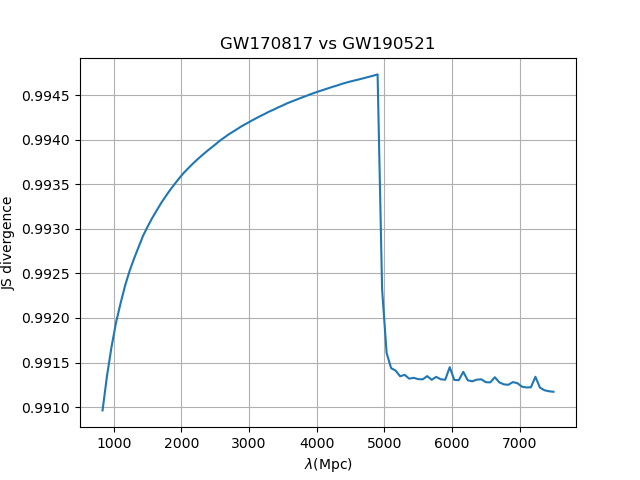
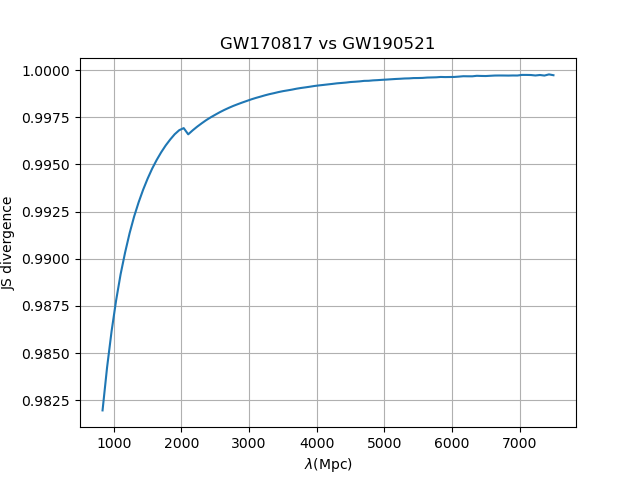
fit plot4.1

diff --git a/plot4.py b/plot4.py
@@ -26,85 +26,48 @@ g, p_g = np.array(sample)[:,0], np.array(sample)[:,1]
 g, p_g = (g-983)/(240-983)*(2-10)+10, (p_g-9)/(699-9)*(0.0-0.7)+0.7
 g, p_g = g/2.5, p_g*2.5
 s = ((g[1:]-g[:-1])*(p_g[1:]+p_g[:-1])).sum()/2
-g_19, p_g_19 = g, p_g/s
+g, p_g = g, p_g/s
+x = np.random.uniform(g.min(), g.max(), d_l_gw_sample.size**2)
+y = np.random.uniform(0, p_g.max(), d_l_gw_sample.size**2)
+g_19 = x[np.where(y<=np.interp(x, g, p_g, left=0, right=0))]
 
-def plot17(lamdas=np.linspace(0, 42.9*3, 101)):
+def plot(lamdas):
     js = np.empty(lamdas.size)
     for i in range(lamdas.size):
         print(i)
         lamda = lamdas[i]
         if (lamda == 0):
-            e = np.zeros(10**8)
             a_17 = g_17-1
         else:
             e = (1+d_l/lamda)*np.exp(-d_l/lamda)
             a_17 = -((1-g_17)/(1-g_17*e))
-        a_17 = a_17[np.where(abs(a_17)<=10)]
-        bins = int((a_17.max()-a_17.min())*200)
+        a_17 = np.sort(a_17)[int(a_17.size*0.001):int(a_17.size*0.999)]
+        print(a_17[0], a_17[-1])
+        bins = int((a_17[-1]-a_17[0])*200)
         hist, bin_edges = np.histogram(a_17, bins=bins, density=True)
         a_17, p_a_17 = (bin_edges[:-1]+bin_edges[1:])/2, hist
         s = ((a_17[1:]-a_17[:-1])*(p_a_17[1:]+p_a_17[:-1])).sum()/2
         a_17, p_a_17 = a_17, p_a_17/s
         if (lamda == 0):
-            e = 0
+            a_19 = g_19-1
         else:
             e = (1+2.5e3/lamda)*np.exp(-2.5e3/lamda)
-        alpha = -((1-g_19)/(1-g_19*e))
-        p_alpha = p_g_19*((1-e)/(1+alpha*e)**2)
-        alpha_i = np.sort_complex(alpha+p_alpha*1j)
-        a_19, p_a_19 = alpha_i.real, alpha_i.imag
-        from scipy.integrate import simpson
-        a = np.linspace(a_17.min(), a_17.max(), 10**7)
-        p_17 = np.interp(a, a_17, p_a_17, left=0, right=0)
-        p_19 = np.interp(a, a_19, p_a_19, left=0, right=0)
-        f = p_17*np.log2(p_17/((p_17+p_19)/2))
-        f[np.isnan(f)] = 0
-        kl_17 = simpson(f, a)
-        a = np.linspace(a_19.min(), a_19.max(), 10**7)
-        p_19 = np.interp(a, a_19, p_a_19, left=0, right=0)
-        p_17 = np.interp(a, a_17, p_a_17, left=0, right=0)
-        f = p_19*np.log2(p_19/((p_19+p_17)/2))
-        f[np.isnan(f)] = 0
-        kl_19 = simpson(f, a)
-        js[i] = (kl_17+kl_19)/2
-    plt.plot(lamdas, js)
-
-def plot19(lamdas=np.linspace(2.5e3/3, 2.5e3*3, 101)):
-    js = np.empty(lamdas.size)
-    for i in range(lamdas.size):
-        print(i)
-        lamda = lamdas[i]
-        if (lamda == 0):
-            e = np.zeros(10**8)
-            a_17 = g_17-1
-        else:
-            e = (1+d_l/lamda)*np.exp(-d_l/lamda)
-            a_17 = -((1-g_17)/(1-g_17*e))
-        a_17 = a_17[np.where(abs(a_17+1)<=0.5)]
-        bins = int((a_17.max()-a_17.min())*200)
-        hist, bin_edges = np.histogram(a_17, bins=bins, density=True)
-        a_17, p_a_17 = (bin_edges[:-1]+bin_edges[1:])/2, hist
-        s = ((a_17[1:]-a_17[:-1])*(p_a_17[1:]+p_a_17[:-1])).sum()/2
-        a_17, p_a_17 = a_17, p_a_17/s
-        if (lamda == 0):
-            e = 0
-        else:
-            e = (1+2.5e3/lamda)*np.exp(-2.5e3/lamda)
-        alpha = -((1-g_19)/(1-g_19*e))
-        p_alpha = p_g_19*((1-e)/(1+alpha*e)**2)
-        where = np.where(abs(a_17)<=10)
-        alpha_i = np.sort_complex(alpha[where]+p_alpha[where]*1j)
-        a_19, p_a_19 = alpha_i.real, alpha_i.imag
+            a_19 = -((1-g_19)/(1-g_19*e))
+        a_19 = np.sort(a_19)[int(a_19.size*0.001):int(a_19.size*0.999)]
+        print(a_19[0], a_19[-1])
+        bins = int((a_19[-1]-a_19[0])*200)
+        hist, bin_edges = np.histogram(a_19, bins=bins, density=True)
+        a_19, p_a_19 = (bin_edges[:-1]+bin_edges[1:])/2, hist
         s = ((a_19[1:]-a_19[:-1])*(p_a_19[1:]+p_a_19[:-1])).sum()/2
         a_19, p_a_19 = a_19, p_a_19/s
         from scipy.integrate import simpson
-        a = np.linspace(a_17.min(), a_17.max(), 10**7)
+        a = np.linspace(a_17[0], a_17[-1], 10**7)
         p_17 = np.interp(a, a_17, p_a_17, left=0, right=0)
         p_19 = np.interp(a, a_19, p_a_19, left=0, right=0)
         f = p_17*np.log2(p_17/((p_17+p_19)/2))
         f[np.isnan(f)] = 0
         kl_17 = simpson(f, a)
-        a = np.linspace(a_19.min(), a_19.max(), 10**7)
+        a = np.linspace(a_19[0], a_19[-1], 10**7)
         p_19 = np.interp(a, a_19, p_a_19, left=0, right=0)
         p_17 = np.interp(a, a_17, p_a_17, left=0, right=0)
         f = p_19*np.log2(p_19/((p_19+p_17)/2))
@@ -113,8 +76,7 @@ def plot19(lamdas=np.linspace(2.5e3/3, 2.5e3*3, 101)):
         js[i] = (kl_17+kl_19)/2
     plt.plot(lamdas, js)
 
-plot17()
-plot19()
+plot(lamdas=np.linspace(2.5e3/3, 2.5e3*3, 101))
 plt.ylim()
 plt.title('GW170817 vs GW190521')
 plt.xlabel('$\\lambda$(Mpc)')

diff --git a/plot4.1.py b/plot4.1.py
@@ -6,13 +6,10 @@ import matplotlib.pyplot as plt
 
 f = h5py.File('GW170817_GWTC-1.hdf5','r')
 dset = f['IMRPhenomPv2NRT_lowSpin_posterior']
-d_l = np.sort(dset['luminosity_distance_Mpc'])
-sample = (np.random.choice(d_l, size=10**8)
-         /np.random.normal(loc=42.9, scale=3.2, size=10**8))**2
-hist, bin_edges = np.histogram(sample, bins=200, density=True)
-g, p_g = (bin_edges[:-1]+bin_edges[1:])/2, hist
-s = ((g[1:]-g[:-1])*(p_g[1:]+p_g[:-1])).sum()/2
-g_17, p_g_17 = g, p_g/s
+d_l_gw_sample = np.sort(dset['luminosity_distance_Mpc'])
+d_l_gw = np.random.choice(d_l_gw_sample, size=d_l_gw_sample.size**2)
+d_l = np.random.normal(loc=42.9, scale=3.2, size=d_l_gw_sample.size**2)
+g_17 = (d_l_gw/d_l)**2
 
 img = mpimg.imread('d_l_GW190521.jpg')
 sample = []
@@ -29,7 +26,10 @@ g, p_g = np.array(sample)[:,0], np.array(sample)[:,1]
 g, p_g = (g-983)/(240-983)*(2-10)+10, (p_g-9)/(699-9)*(0.0-0.7)+0.7
 g, p_g = g/2.5, p_g*2.5
 s = ((g[1:]-g[:-1])*(p_g[1:]+p_g[:-1])).sum()/2
-g_19, p_g_19 = g, p_g/s
+g, p_g = g, p_g/s
+x = np.random.uniform(g.min(), g.max(), d_l_gw_sample.size**2)
+y = np.random.uniform(0, p_g.max(), d_l_gw_sample.size**2)
+g_19 = x[np.where(y<=np.interp(x, g, p_g, left=0, right=0))]
 
 def plot(lamdas=np.linspace(0, 3, 101)):
     js = np.empty(lamdas.size)
@@ -37,29 +37,37 @@ def plot(lamdas=np.linspace(0, 3, 101)):
         print(i)
         lamda = lamdas[i]
         if (lamda == 0):
-            e = 0
+            a_17 = g_17-1
         else:
             e = (1+1/lamda)*np.exp(-1/lamda)
-        alpha = -((1-g_17)/(1-g_17*e))
-        p_alpha = p_g_17*((1-e)/(1+alpha*e)**2)
-        alpha_i = np.sort_complex(alpha+p_alpha*1j)
-        a_17, p_a_17 = alpha_i.real, alpha_i.imag
+            a_17 = -((1-g_17)/(1-g_17*e))
+        a_17 = np.sort(a_17)[int(a_17.size*0.001):int(a_17.size*0.999)]
+        print(a_17[0], a_17[-1])
+        bins = int((a_17[-1]-a_17[0])*200)
+        hist, bin_edges = np.histogram(a_17, bins=bins, density=True)
+        a_17, p_a_17 = (bin_edges[:-1]+bin_edges[1:])/2, hist
         s = ((a_17[1:]-a_17[:-1])*(p_a_17[1:]+p_a_17[:-1])).sum()/2
         a_17, p_a_17 = a_17, p_a_17/s
-        alpha = -((1-g_19)/(1-g_19*e))
-        p_alpha = p_g_19*((1-e)/(1+alpha*e)**2)
-        alpha_i = np.sort_complex(alpha+p_alpha*1j)
-        a_19, p_a_19 = alpha_i.real, alpha_i.imag
+        if (lamda == 0):
+            a_19 = g_19-1
+        else:
+            e = (1+1/lamda)*np.exp(-1/lamda)
+            a_19 = -((1-g_19)/(1-g_19*e))
+        a_19 = np.sort(a_19)[int(a_19.size*0.001):int(a_19.size*0.999)]
+        print(a_19[0], a_19[-1])
+        bins = int((a_19[-1]-a_19[0])*200)
+        hist, bin_edges = np.histogram(a_19, bins=bins, density=True)
+        a_19, p_a_19 = (bin_edges[:-1]+bin_edges[1:])/2, hist
         s = ((a_19[1:]-a_19[:-1])*(p_a_19[1:]+p_a_19[:-1])).sum()/2
         a_19, p_a_19 = a_19, p_a_19/s
         from scipy.integrate import simpson
-        a = np.linspace(a_17.min(), a_17.max(), 10**7)
+        a = np.linspace(a_17[0], a_17[-1], 10**7)
         p_17 = np.interp(a, a_17, p_a_17, left=0, right=0)
         p_19 = np.interp(a, a_19, p_a_19, left=0, right=0)
         f = p_17*np.log2(p_17/((p_17+p_19)/2))
         f[np.isnan(f)] = 0
         kl_17 = simpson(f, a)
-        a = np.linspace(a_19.min(), a_19.max(), 10**7)
+        a = np.linspace(a_19[0], a_19[-1], 10**7)
         p_19 = np.interp(a, a_19, p_a_19, left=0, right=0)
         p_17 = np.interp(a, a_17, p_a_17, left=0, right=0)
         f = p_19*np.log2(p_19/((p_19+p_17)/2))
